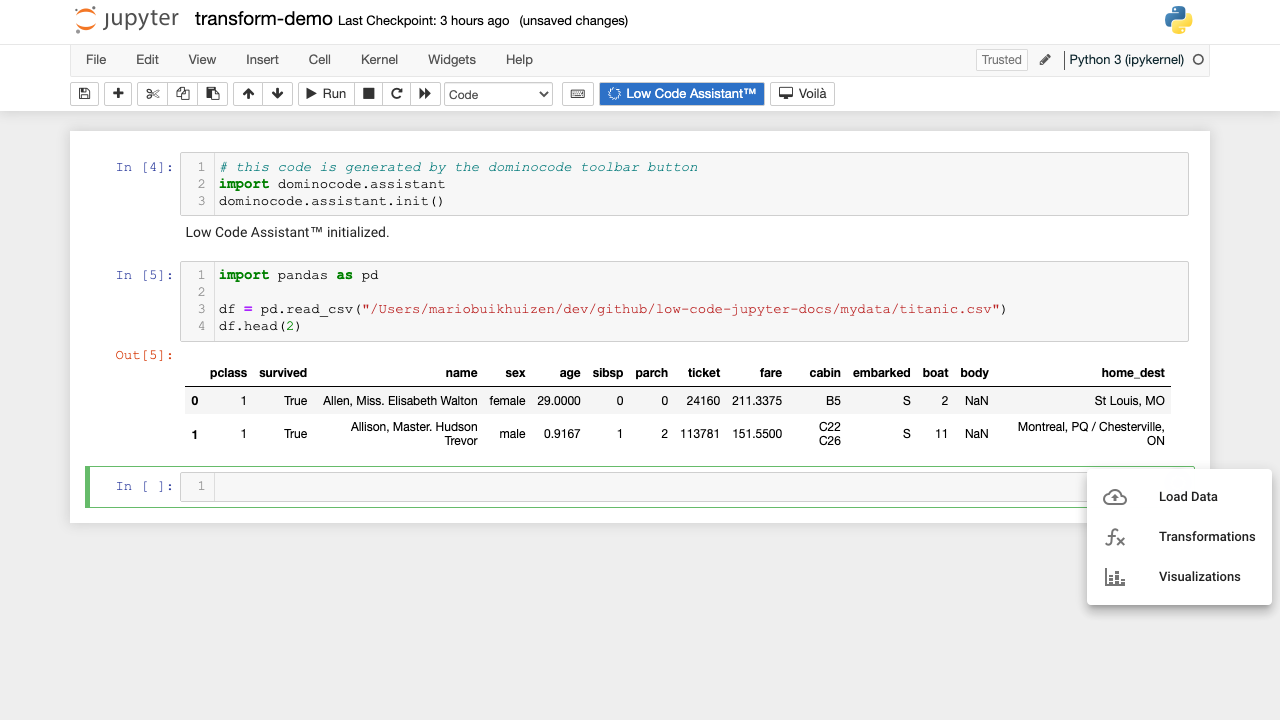
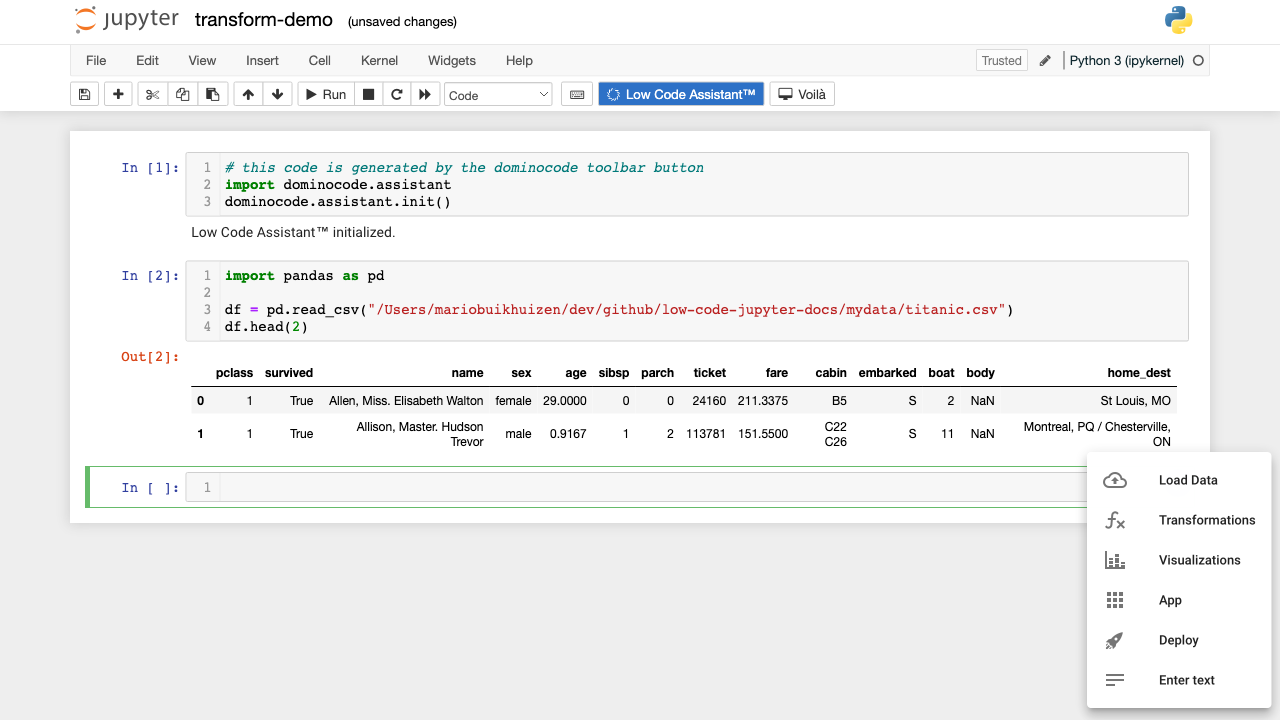
docs: update images to LCA v0.0.17

diff --git a/docs/getting-started/loading-data/csv.md b/docs/getting-started/loading-data/csv.md
@@ -9,22 +9,22 @@ The following video includes all the steps explained below
 ## Check installation
 
 If you have followed the [installation instructions](../../install.md), you should see a blue <span style="background-color: #2D71C7; color: white; padding: 3px 10px 3px 10px">Low Code Assistant™</span> button in the toolbar of your Jupyter notebook.
-![Navigate to files](../../screenshots/00-initial.png)
+![Navigate to files](../../screenshots/load-csv/00-initial.png)
 
 ## Initialize the Low Code Assistant™
 
 
 The Low Code Assistant™ can be started by clicking the <span style="background-color: #2D71C7; color: white; padding: 3px 10px 3px 10px">Low Code Assistant™</span> button in the toolbar. It will insert a code snippet in a new code cell and execute it. After running succesfully, you should see `Low Code Assistant™ initialized`, as in the following screenshot:
 
-![Assistant ready](../../screenshots/01-assistant-ready.png)
+![Assistant ready](../../screenshots/load-csv/01-assistant-ready.png)
 
 If you now hover above a code cell, you should see a blue icon ![assistant icon](../../screenshots/general/assistant-icon.png){.assistant-icon} to the right:
 
-![Assistant visible](../../screenshots/02-assistant-visible.png)
+![Assistant visible](../../screenshots/load-csv/02-assistant-visible.png)
 
 If you hover above the ![assistant icon](../../screenshots/general/assistant-icon.png){.assistant-icon} icon, it will show a popup menu:
 
-![Assistant menu](../../screenshots/03-assistant-expand.png)
+![Assistant menu](../../screenshots/load-csv/03-assistant-expand.png)
 
 ## Loading CSV data into a Pandas DataFrame
 
@@ -33,30 +33,30 @@ If you hover above the ![assistant icon](../../screenshots/general/assistant-ico
 
 Hover above the ![assistant icon](../../screenshots/general/assistant-icon.png){.assistant-icon} icon and click the ![Load data](../../screenshots/general/assistant-load-data.png){.docs-border .menu-item} menu item, which will open the `Load Data` dialog.
 
-![Load data](../../screenshots/04-load-data.png)
+![Load data](../../screenshots/load-csv/04-load-data.png)
 
 ### Select `Datasets` tab
 
 To select a file, navigate to the `Datasets` tab:
 
-![Load datasets](../../screenshots/05-load-data-datasets.png)
+![Load datasets](../../screenshots/load-csv/05-load-data-datasets.png)
 
 ### Navigate to the right directory
 
 Use `..` to move a directory up:
 
-![Go up a directory](../../screenshots/06-load-data-datasets-dir-up.png)
+![Go up a directory](../../screenshots/load-csv/06-load-data-datasets-dir-up.png)
 
 And click the **bold** directory name to enter a directory
 
-![Enter directory](../../screenshots/07-load-data-datasets-dir-mydata.png)
+![Enter directory](../../screenshots/load-csv/07-load-data-datasets-dir-mydata.png)
 
 ### Click to open
 
 Click on the `titanic.csv` file, and it will close the dialog, and insert the Python code to load the `.csv` file
 into a Pandas dataframe.
 
-![Load data](../../screenshots/08-load-data-titanic.png)
+![Load data](../../screenshots/load-csv/08-load-data-titanic.png)
 
 The dataframe will be assigned to the `df` variable. The last expression (the last line) of the code cell will only be the `df` variable, which will
 cause the notebook to display its content.
